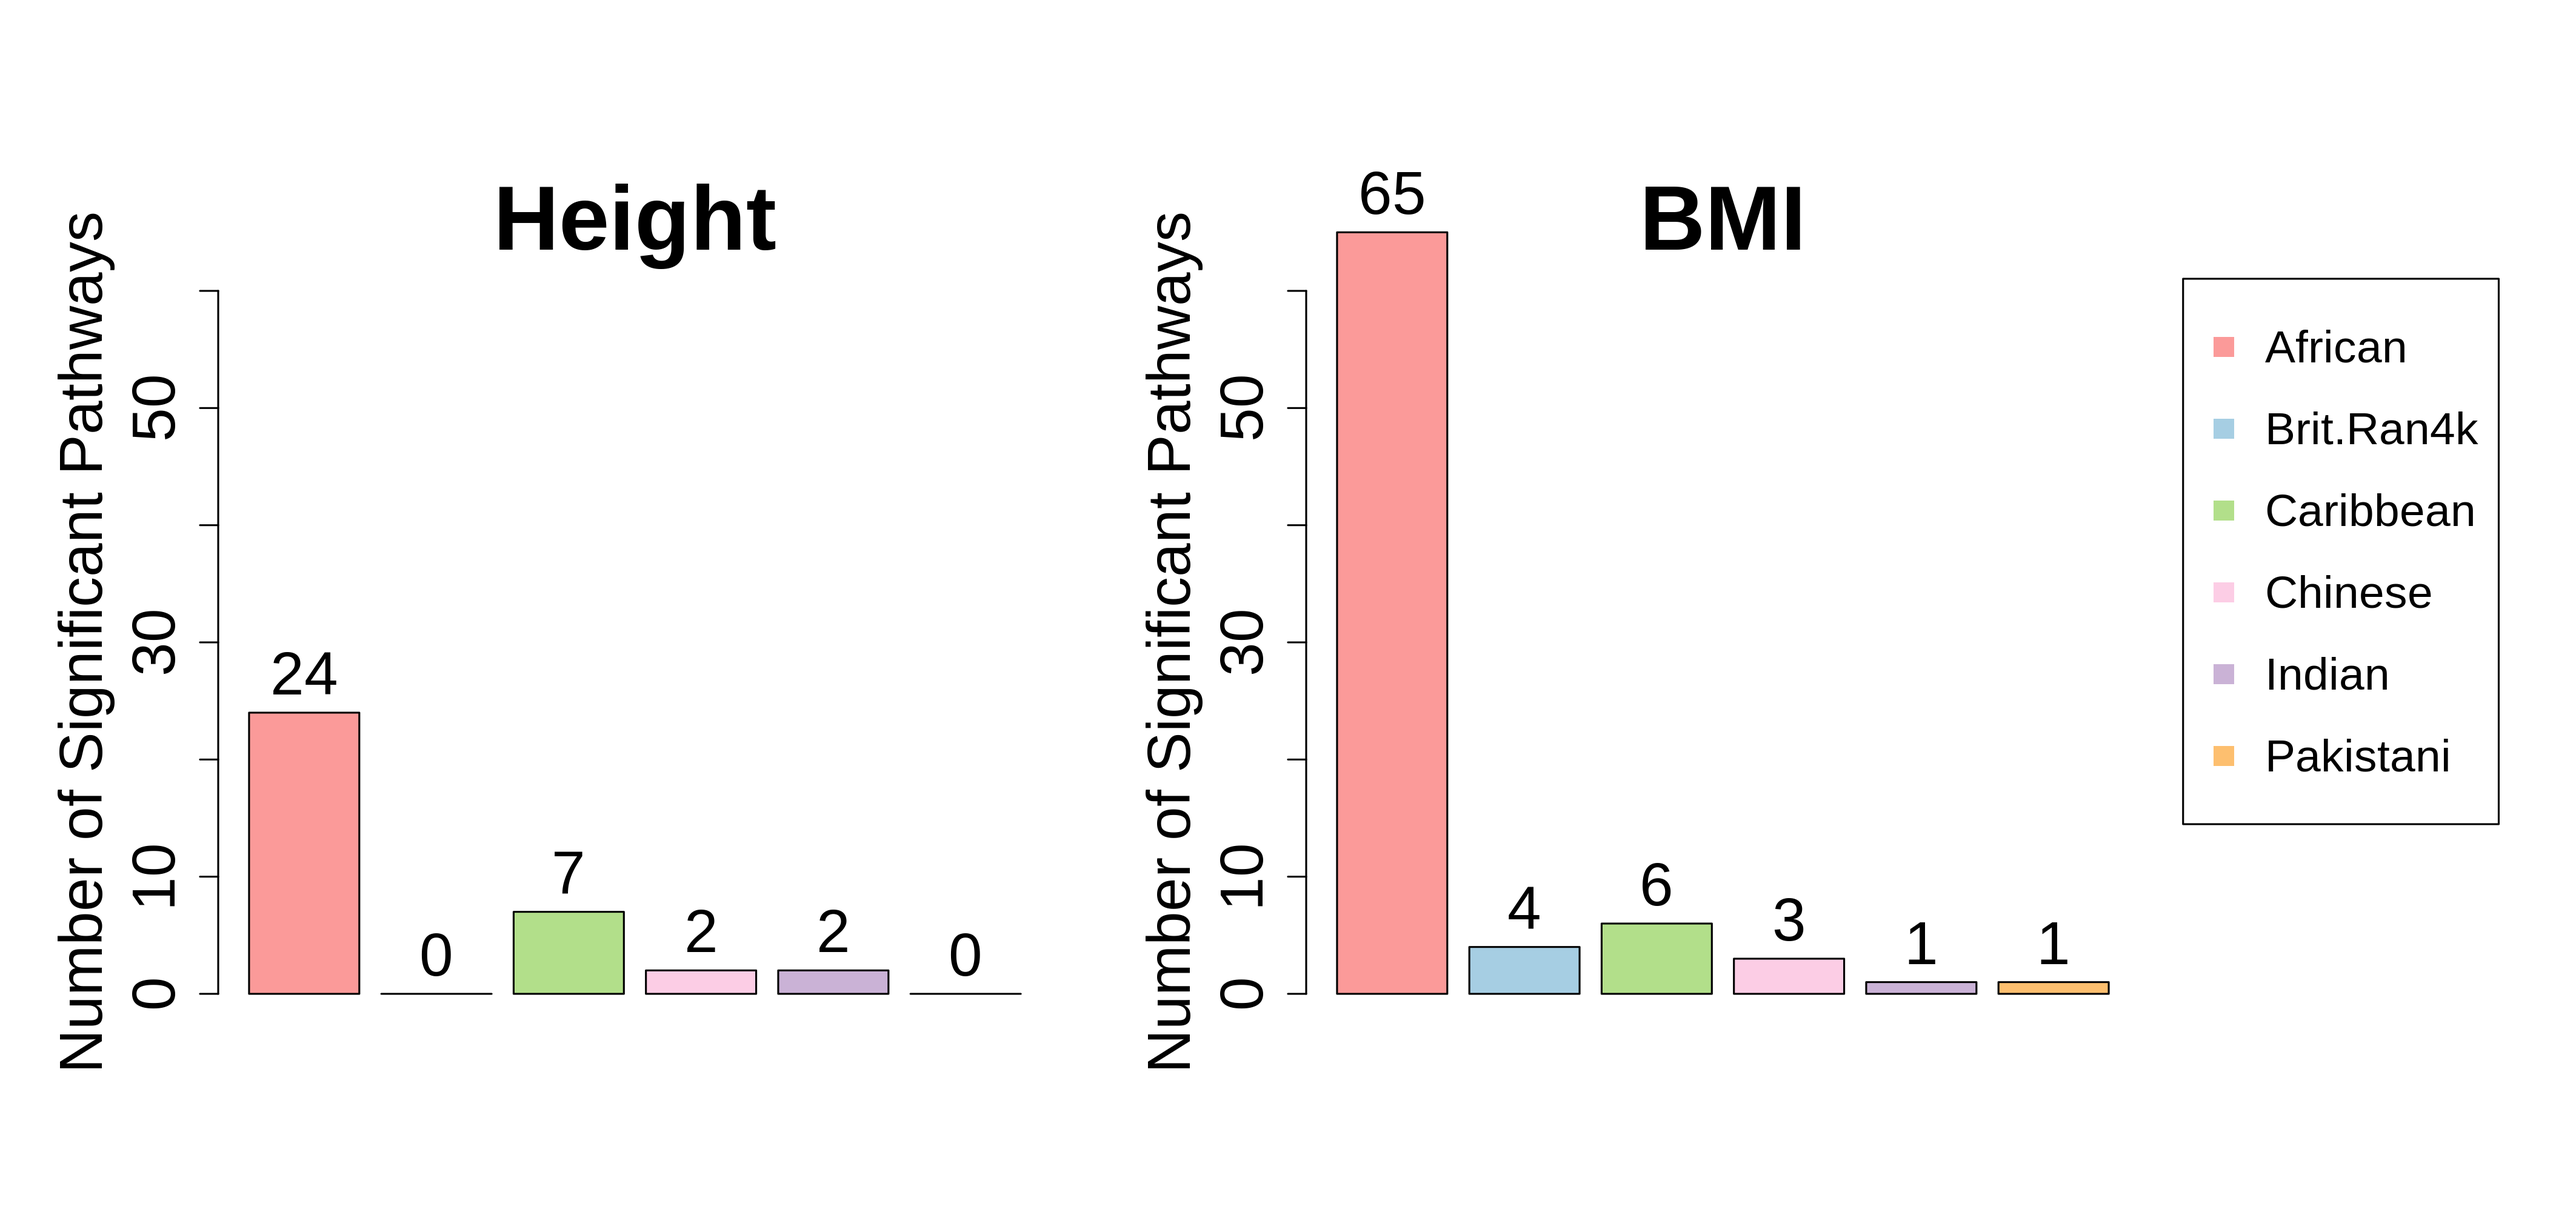
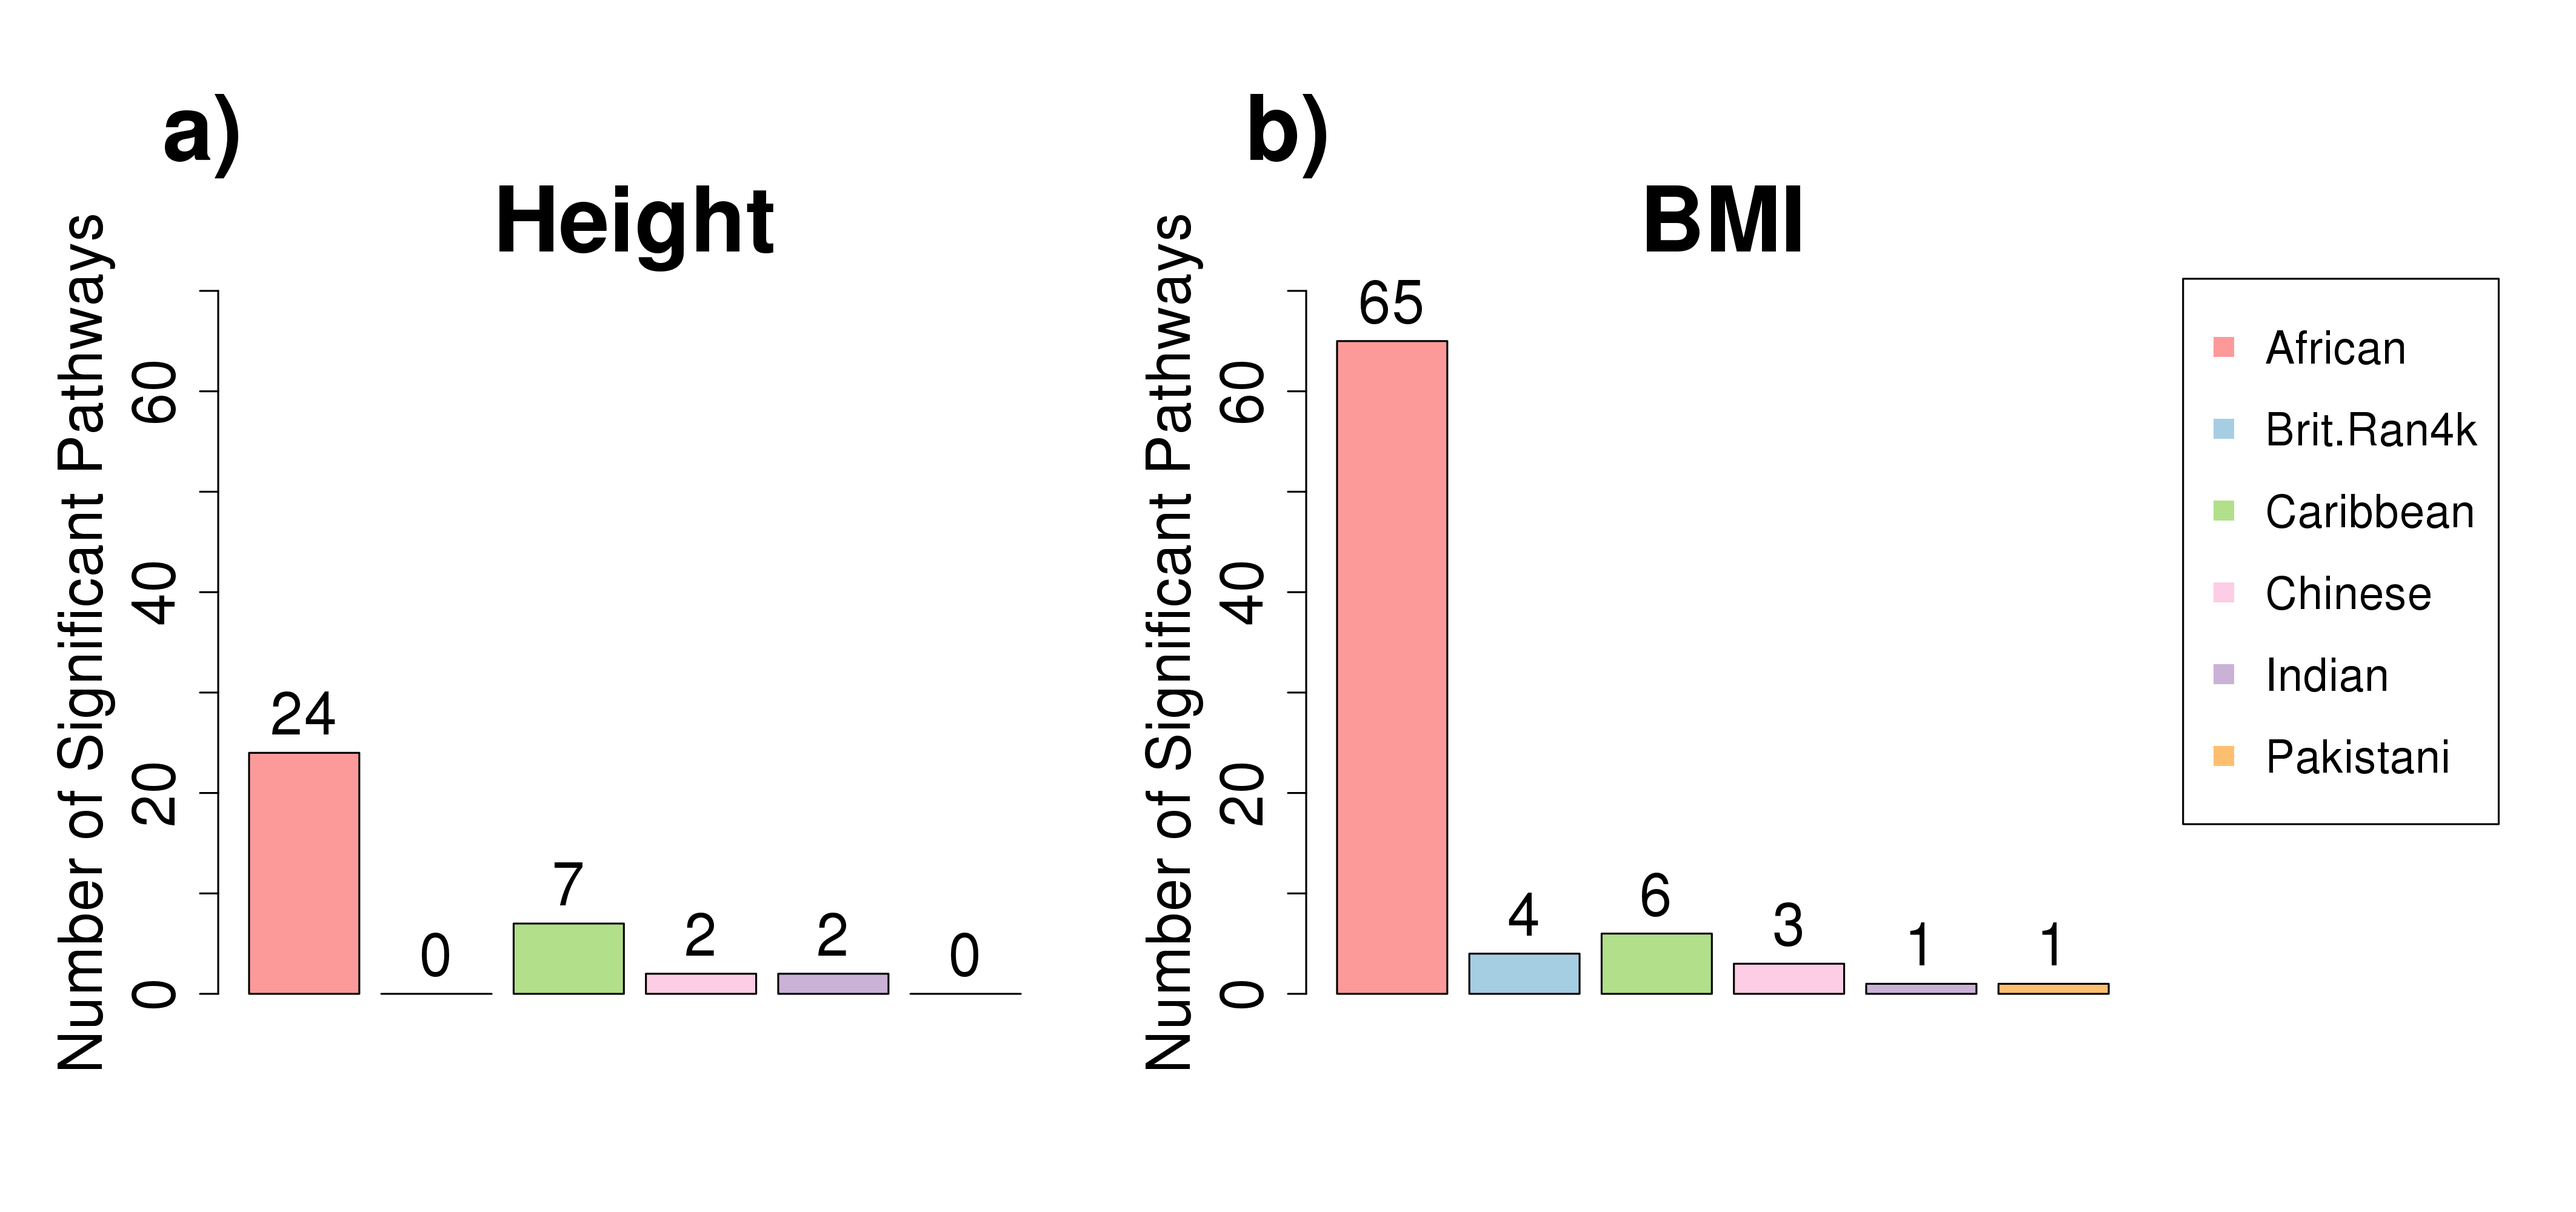
edits (Main and Supplementary Figure sub labels)

diff --git a/Main.tex b/Main.tex
@@ -556,7 +556,7 @@ After this first round of QC procedures, we then proceeded to impute our current
 \centering
 \hspace*{-.9cm}
 \includegraphics[scale=.45]{Images/Supp/InterPath_Supp_Figure_Barplots_REACTOME_vs4.png}
-\caption[TBD]{\textbf{Numbers of REACTOME pathways that have significant marginal epistasis, per subgroup}. The barplots show the number of genome-wide significant pathways found from running MAPIT-R for both height and BMI in the REACTOME database on each of our UKB subgroups. Genome-wide significance was determined by using Bonferroni-corrected $p$-value thresholds based on the number of pathways tested in each pathway database + phenotype + subgroup combination. As shown in these results, we find across all database + phenotype combinations that the African subgroup has the largest numbers of significant pathways. For lists of the specific significant pathways per database + phenotype + subgroup combination, see Supplementary Tables \ref{InterPath-Supp-Table-TopPathways-AllPaths-AllPhenos-Caption}\textcolor{blue}{a-d}.}
+\caption[TBD]{\textbf{Numbers of REACTOME pathways that have significant marginal epistasis, per subgroup}. The barplots show the number of genome-wide significant pathways found from running MAPIT-R for both (a) height and (b) BMI in the REACTOME database on each of our UKB subgroups. Genome-wide significance was determined by using Bonferroni-corrected $p$-value thresholds based on the number of pathways tested in each pathway database + phenotype + subgroup combination. As shown in these results, we find across all database + phenotype combinations that the African subgroup has the largest numbers of significant pathways. For lists of the specific significant pathways per database + phenotype + subgroup combination, see Supplementary Tables \ref{InterPath-Supp-Table-TopPathways-AllPaths-AllPhenos-Caption}\textcolor{blue}{a-d}.}
 \label{InterPath-Supp-Figure-Barplots-REACTOME}
 \end{figure}
 \clearpage
